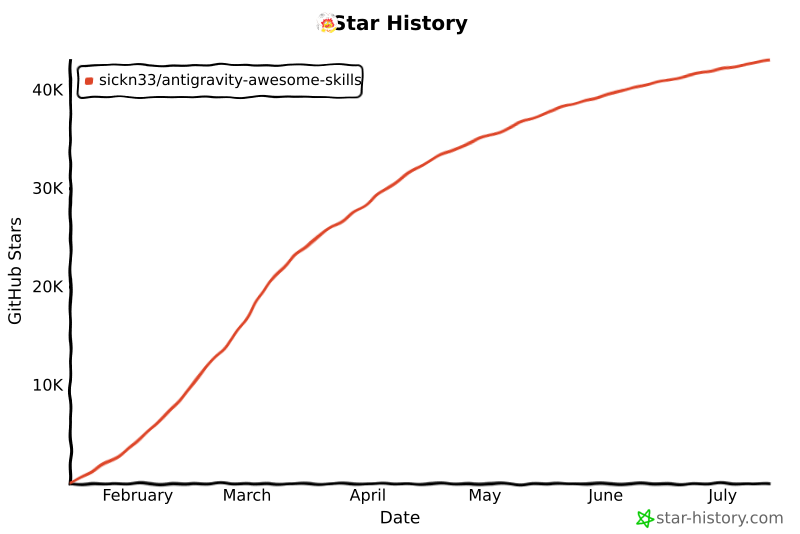
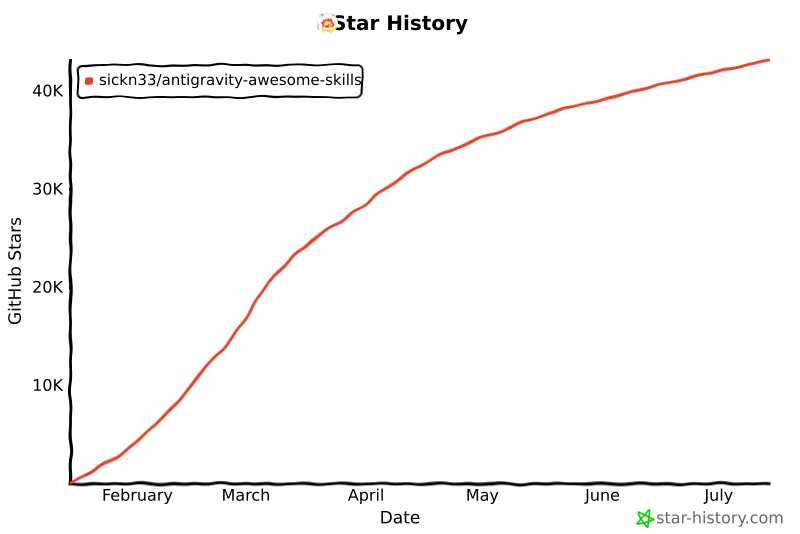
chore: update star history chart

diff --git a/README.md b/README.md
@@ -547,14 +547,14 @@ We officially thank the following contributors for their help in making this rep
 ## Star History
 
 <a href="https://www.star-history.com/#sickn33/antigravity-awesome-skills&type=date&legend=top-left">
- <img alt="Star History Chart" src="https://api.star-history.com/svg?repos=sickn33/antigravity-awesome-skills&type=date&legend=top-left&cache_bust=202607130934" />
+ <img alt="Star History Chart" src="https://api.star-history.com/svg?repos=sickn33/antigravity-awesome-skills&type=date&legend=top-left&cache_bust=202607140812" />
 </a>
 
 <a href="https://www.star-history.com/sickn33/antigravity-awesome-skills">
  <picture>
-   <source media="(prefers-color-scheme: dark)" srcset="https://api.star-history.com/chart?repos=sickn33/antigravity-awesome-skills&style=landscape1&theme=dark&cache_bust=202607130934" />
-   <source media="(prefers-color-scheme: light)" srcset="https://api.star-history.com/chart?repos=sickn33/antigravity-awesome-skills&style=landscape1&cache_bust=202607130934" />
-   <img alt="Star History Chart" src="https://api.star-history.com/chart?repos=sickn33/antigravity-awesome-skills&style=landscape1&cache_bust=202607130934" />
+   <source media="(prefers-color-scheme: dark)" srcset="https://api.star-history.com/chart?repos=sickn33/antigravity-awesome-skills&style=landscape1&theme=dark&cache_bust=202607140812" />
+   <source media="(prefers-color-scheme: light)" srcset="https://api.star-history.com/chart?repos=sickn33/antigravity-awesome-skills&style=landscape1&cache_bust=202607140812" />
+   <img alt="Star History Chart" src="https://api.star-history.com/chart?repos=sickn33/antigravity-awesome-skills&style=landscape1&cache_bust=202607140812" />
  </picture>
 </a>
 
